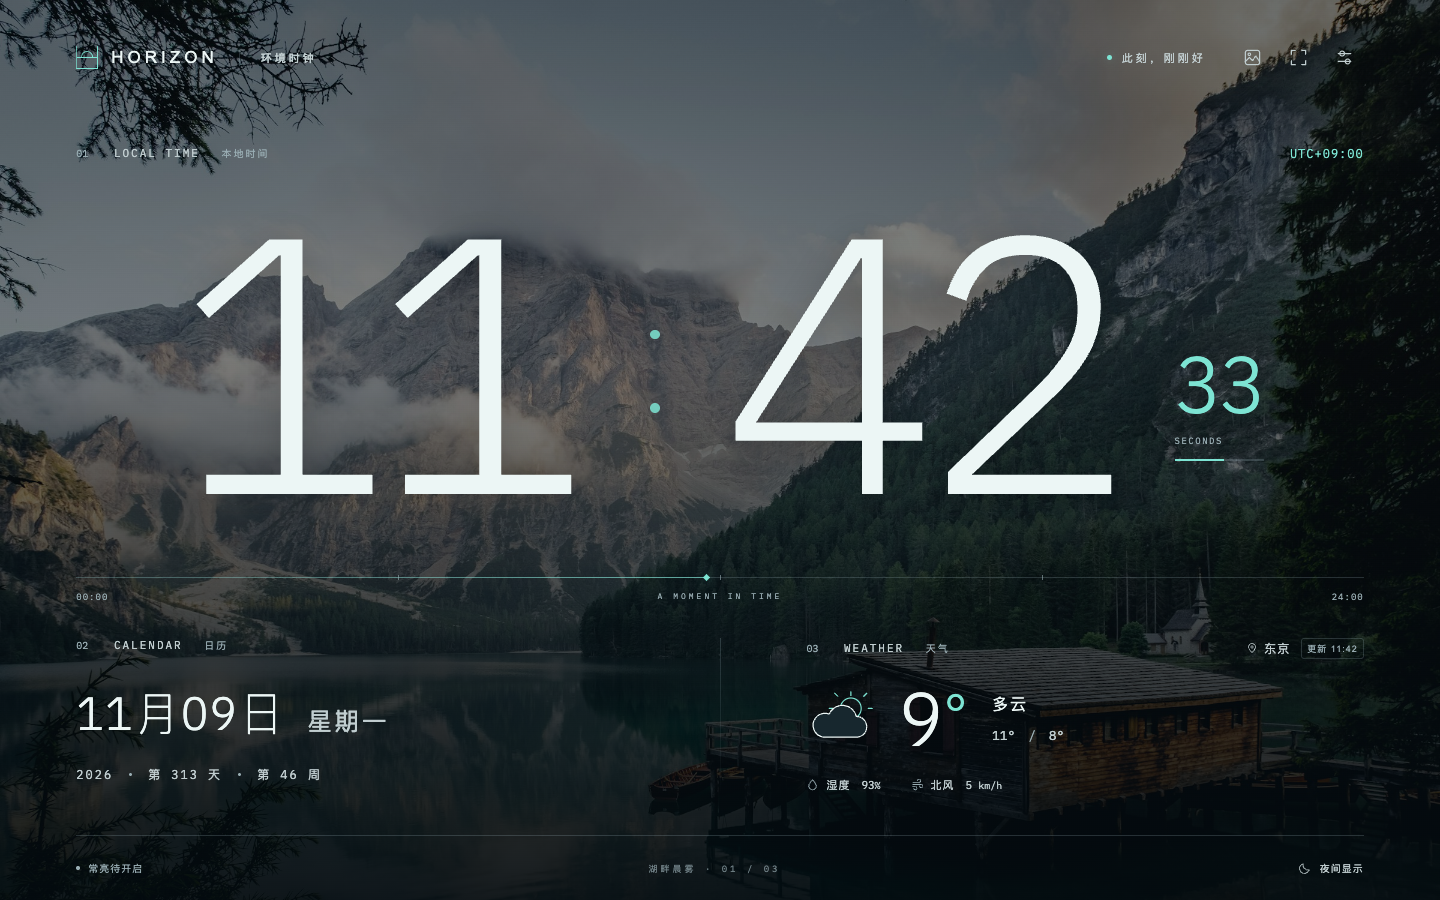
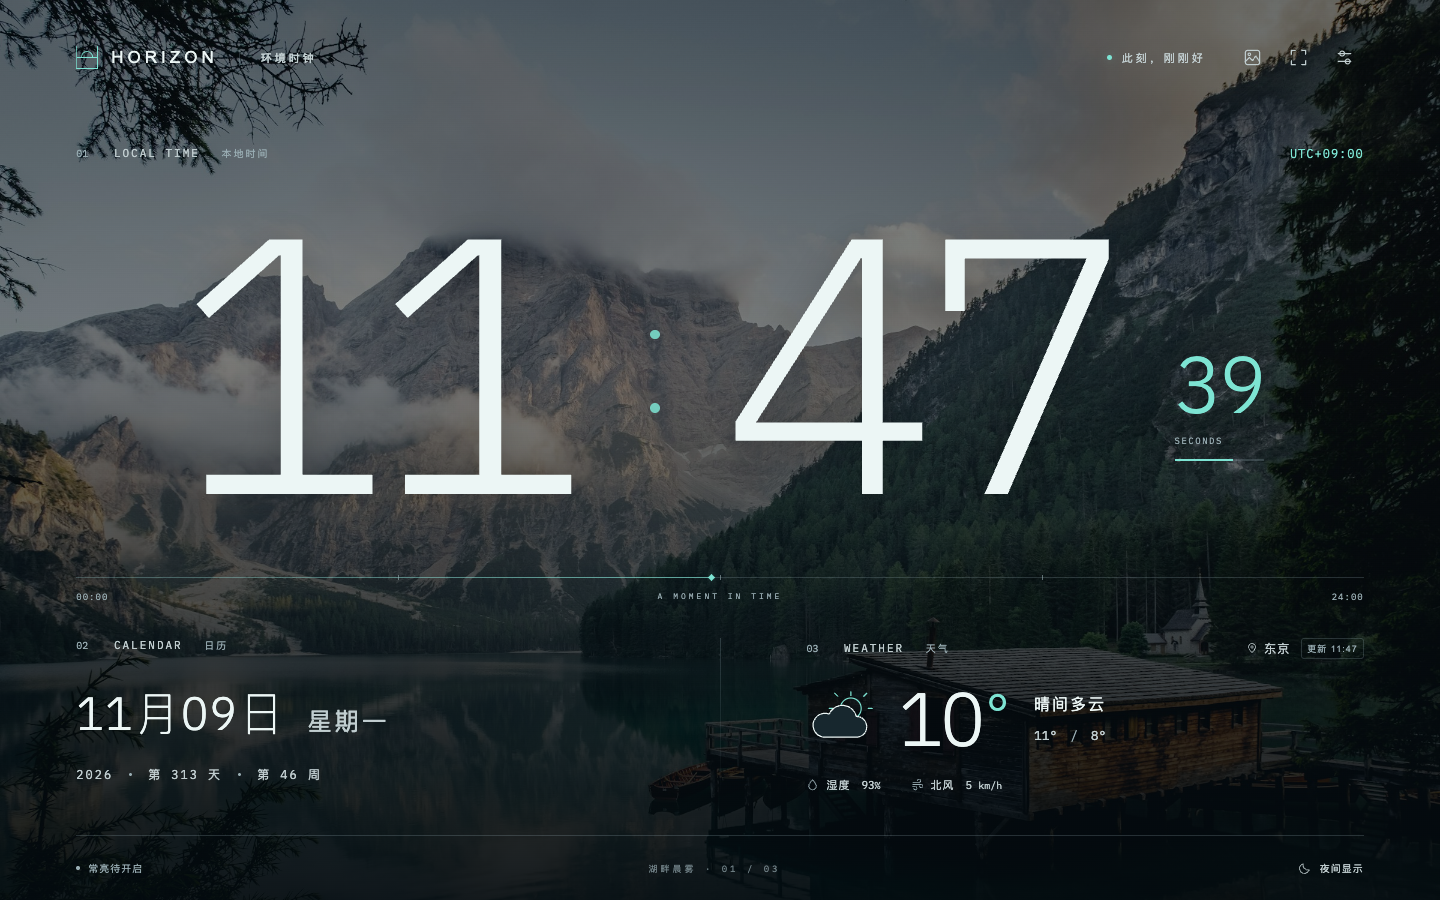
fix: align weather symbols and native fullscreen state

Changed region(s): [[0.6562, 0.2489, 0.7812, 0.56], [0.625, 0.7467, 0.75, 0.84], [0.8438, 0.4044, 0.875, 0.4667]]

diff --git a/tests/browser/product.spec.js b/tests/browser/product.spec.js
@@ -221,6 +221,9 @@ test('desktop controls call only the intended native operations', async ({ page 
   await expect(page.locator('#wake-status')).toHaveText('屏幕常亮已开启');
   await page.locator('#keep-awake').uncheck();
   await expect(page.locator('#wake-status')).toHaveText('常亮待开启');
+  await page.getByRole('button', { name: '完成设置' }).click();
+  await page.keyboard.press('Escape');
+  await expect(page.getByRole('button', { name: '进入全屏', exact: true })).toBeVisible();
   expect(await page.evaluate(() => window.testNativeCalls)).toEqual(
     expect.arrayContaining([
       { command: 'set_autostart', args: { enabled: true } },
@@ -228,4 +231,16 @@ test('desktop controls call only the intended native operations', async ({ page 
       { command: 'set_keep_awake', args: { enabled: false } },
     ])
   );
+});
+
+test('weather symbols reflect rain rather than showing sunshine at night', async ({ page }) => {
+  const weather = weatherFixture();
+  weather.current.weather_code = 95;
+  weather.current.is_day = 0;
+  await page.route(api, (route) => route.fulfill({ json: weather }));
+  await start(page, { weatherEnabled: true });
+  await expect(page.locator('#weather-description')).toHaveText('雷阵雨');
+  await expect(page.locator('#weather-sun')).toBeHidden();
+  await expect(page.locator('#weather-rain')).toBeVisible();
+  await expect(page.locator('#weather-snow')).toBeHidden();
 });

diff --git a/lib/product.js b/lib/product.js
@@ -69,10 +69,15 @@ function renderWeather() {
       : weatherState === 'loading'
         ? '正在更新'
         : '暂不可用';
-  $('weather-sun').hidden = !data || !data.isDay || data.code > 2;
-  $('weather-rain').hidden =
-    !data || ![51, 53, 55, 56, 57, 61, 63, 65, 66, 67, 80, 81, 82, 95, 96, 99].includes(data.code);
-  $('weather-snow').hidden = !data || ![71, 73, 75, 77, 85, 86].includes(data.code);
+  $('weather-sun').toggleAttribute('hidden', !data || !data.isDay || data.code > 2);
+  $('weather-rain').toggleAttribute(
+    'hidden',
+    !data || ![51, 53, 55, 56, 57, 61, 63, 65, 66, 67, 80, 81, 82, 95, 96, 99].includes(data.code)
+  );
+  $('weather-snow').toggleAttribute(
+    'hidden',
+    !data || ![71, 73, 75, 77, 85, 86].includes(data.code)
+  );
   const stale = data && (weatherState !== 'fresh' || Date.now() - data.fetchedAt > WEATHER_TTL * 2);
   const time = data
     ? new Date(data.fetchedAt).toLocaleTimeString('zh-CN', {

diff --git a/app.js b/app.js
@@ -384,7 +384,9 @@ document.addEventListener('keydown', (event) => {
   )
     return;
   if (event.key === 'Escape' && isDesktop)
-    native('set_fullscreen', { enabled: false }).catch(() => toast('未能退出全屏。'));
+    native('set_fullscreen', { enabled: false })
+      .then(() => $('fullscreen').setAttribute('aria-label', '进入全屏'))
+      .catch(() => toast('未能退出全屏。'));
   if (event.key.toLowerCase() === 'f') {
     event.preventDefault();
     toggleFullscreen();

diff --git a/docs/VALIDATION.md b/docs/VALIDATION.md
@@ -4,17 +4,19 @@ Validation layers are separate. A browser test or successful executable build do
 
 ## Local checks — 2026-11-09
 
-| Layer                                        | Evidence / scope                                                                                                                                      |
-| -------------------------------------------- | ----------------------------------------------------------------------------------------------------------------------------------------------------- |
-| Unit regressions                             | `npm test`: settings validation/migration, backup boundaries, night schedules and overrides, weather parsing/units/expiry                             |
-| Browser regressions                          | `npm run test:e2e`: first-run consent, midnight/year rollover, backgrounds, weather failures/timeouts/cache, backup, updates and eight viewport sizes |
-| Real weather request                         | An actual Open-Meteo response for Shanghai was retrieved and parsed successfully; this is separate from mocked weather regressions                    |
-| Frontend distribution                        | `npm run build` produces the fixed asset set in `dist/`                                                                                               |
-| Native compilation                           | Local macOS ARM64 `cargo check` and application bundle build succeeded; not Linux runtime proof                                                       |
-| Linux compilation/install                    | Automated by the public repository's **Checks** workflow; inspect its result for the relevant commit                                                  |
-| Visual inspection                            | Current browser-rendered screenshots are under `docs/images/`; they do not establish distant viewing or hardware brightness acceptance                |
-| Omarchy physical qualification               | Pending                                                                                                                                               |
-| 72-hour soak and update/reinstall acceptance | Pending                                                                                                                                               |
+| Layer                                        | Evidence / scope                                                                                                                                                                              |
+| -------------------------------------------- | --------------------------------------------------------------------------------------------------------------------------------------------------------------------------------------------- |
+| Unit regressions                             | `npm test`: 11 passing checks for settings validation/migration, backup boundaries, night schedules and overrides, weather parsing/units/expiry                                               |
+| Browser regressions                          | `npm run test:e2e`: 14 passing browser regressions covering first-run consent, midnight/year rollover, backgrounds, weather failures/timeouts/cache, backup, updates and eight viewport sizes |
+| Real weather request                         | An actual Open-Meteo response for Shanghai was retrieved and parsed successfully; this is separate from mocked weather regressions                                                            |
+| Frontend distribution                        | `npm run build` produces the fixed asset set in `dist/`                                                                                                                                       |
+| Native compilation                           | Local macOS ARM64 `cargo check` and application bundle build succeeded; not Linux runtime proof                                                                                               |
+| Linux compilation/install                    | Automated by the public repository's **Checks** workflow; inspect its result for the relevant commit                                                                                          |
+| Visual inspection                            | Current browser-rendered screenshots are under `docs/images/`; they do not establish distant viewing or hardware brightness acceptance                                                        |
+| Omarchy physical qualification               | Pending                                                                                                                                                                                       |
+| 72-hour soak and update/reinstall acceptance | Pending                                                                                                                                                                                       |
+
+The local macOS release build emitted a Rust toolchain symbol-stripping warning (`rust-objcopy` could not load `libLLVM.dylib`). The build exited successfully and produced the application bundle. This does not establish native runtime behavior. `cargo check` and `cargo clippy -- -D warnings` passed.
 
 ## Physical-device checklist
 
